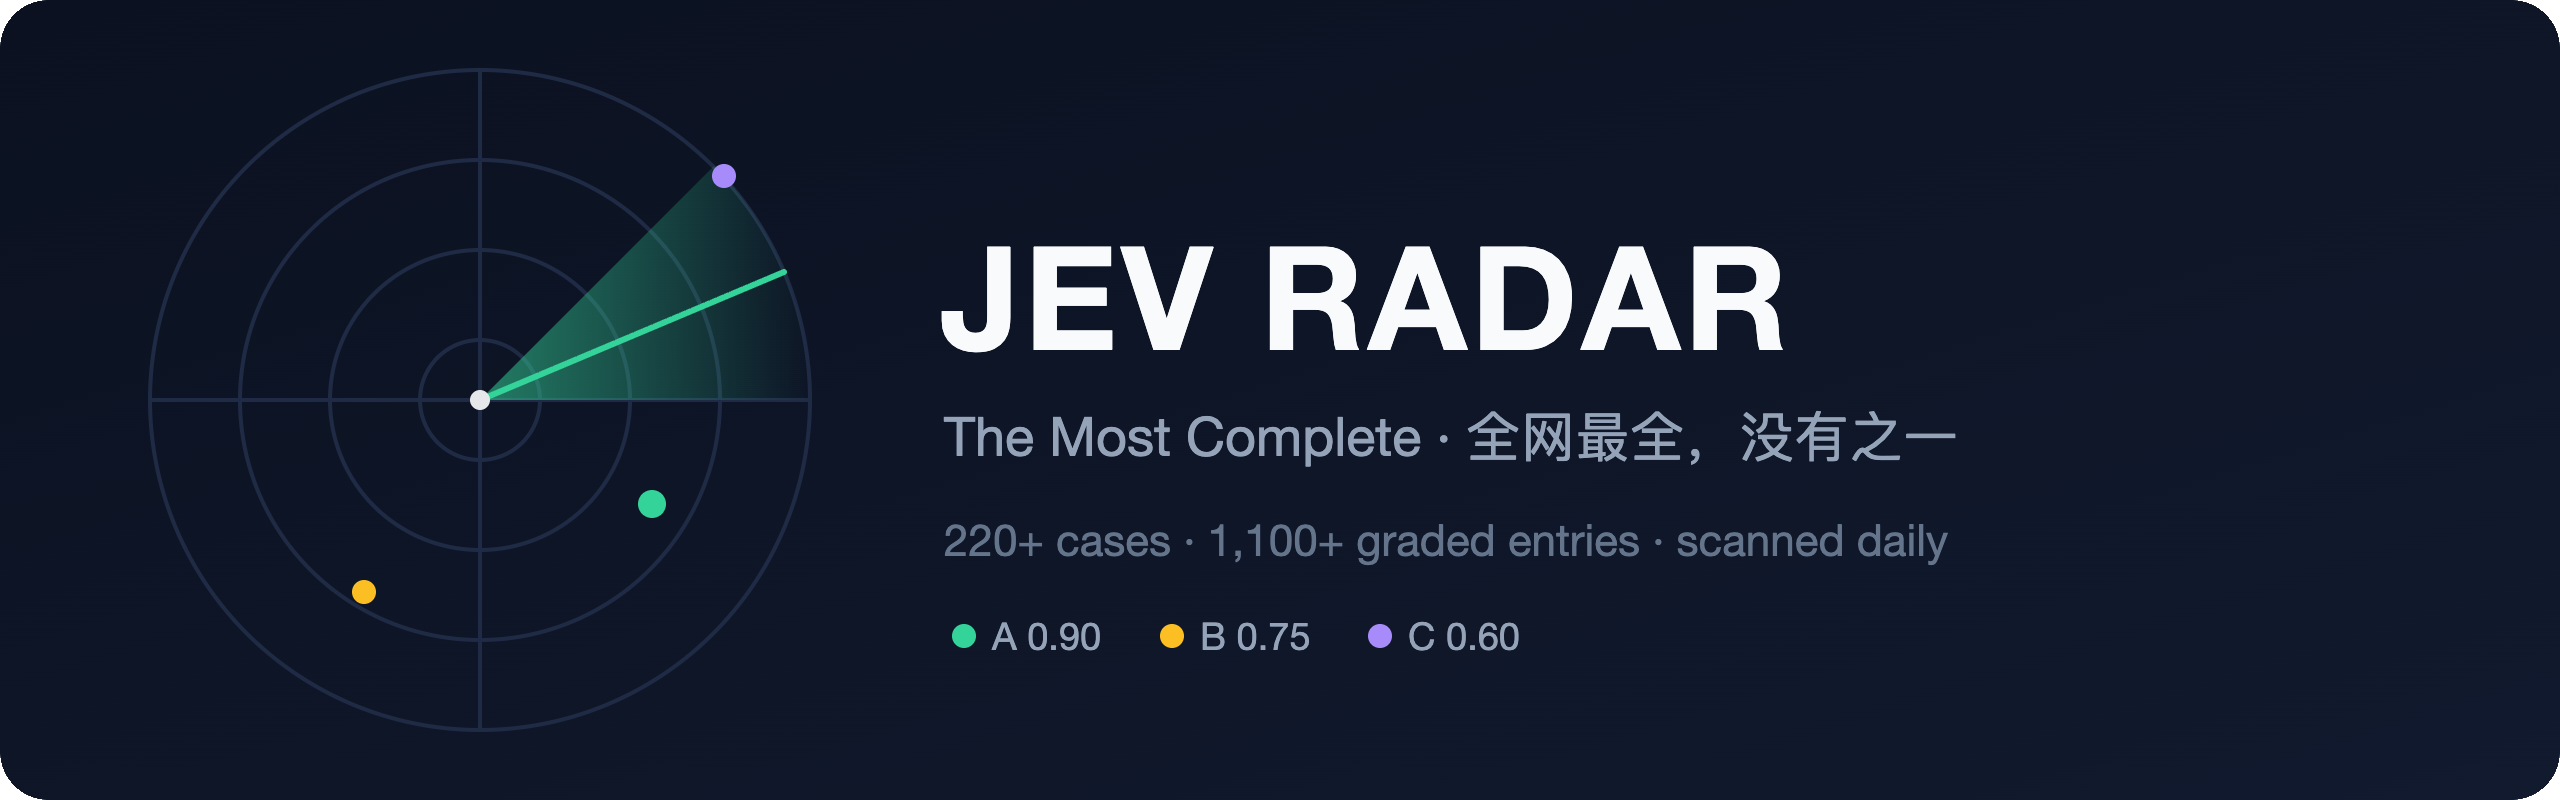
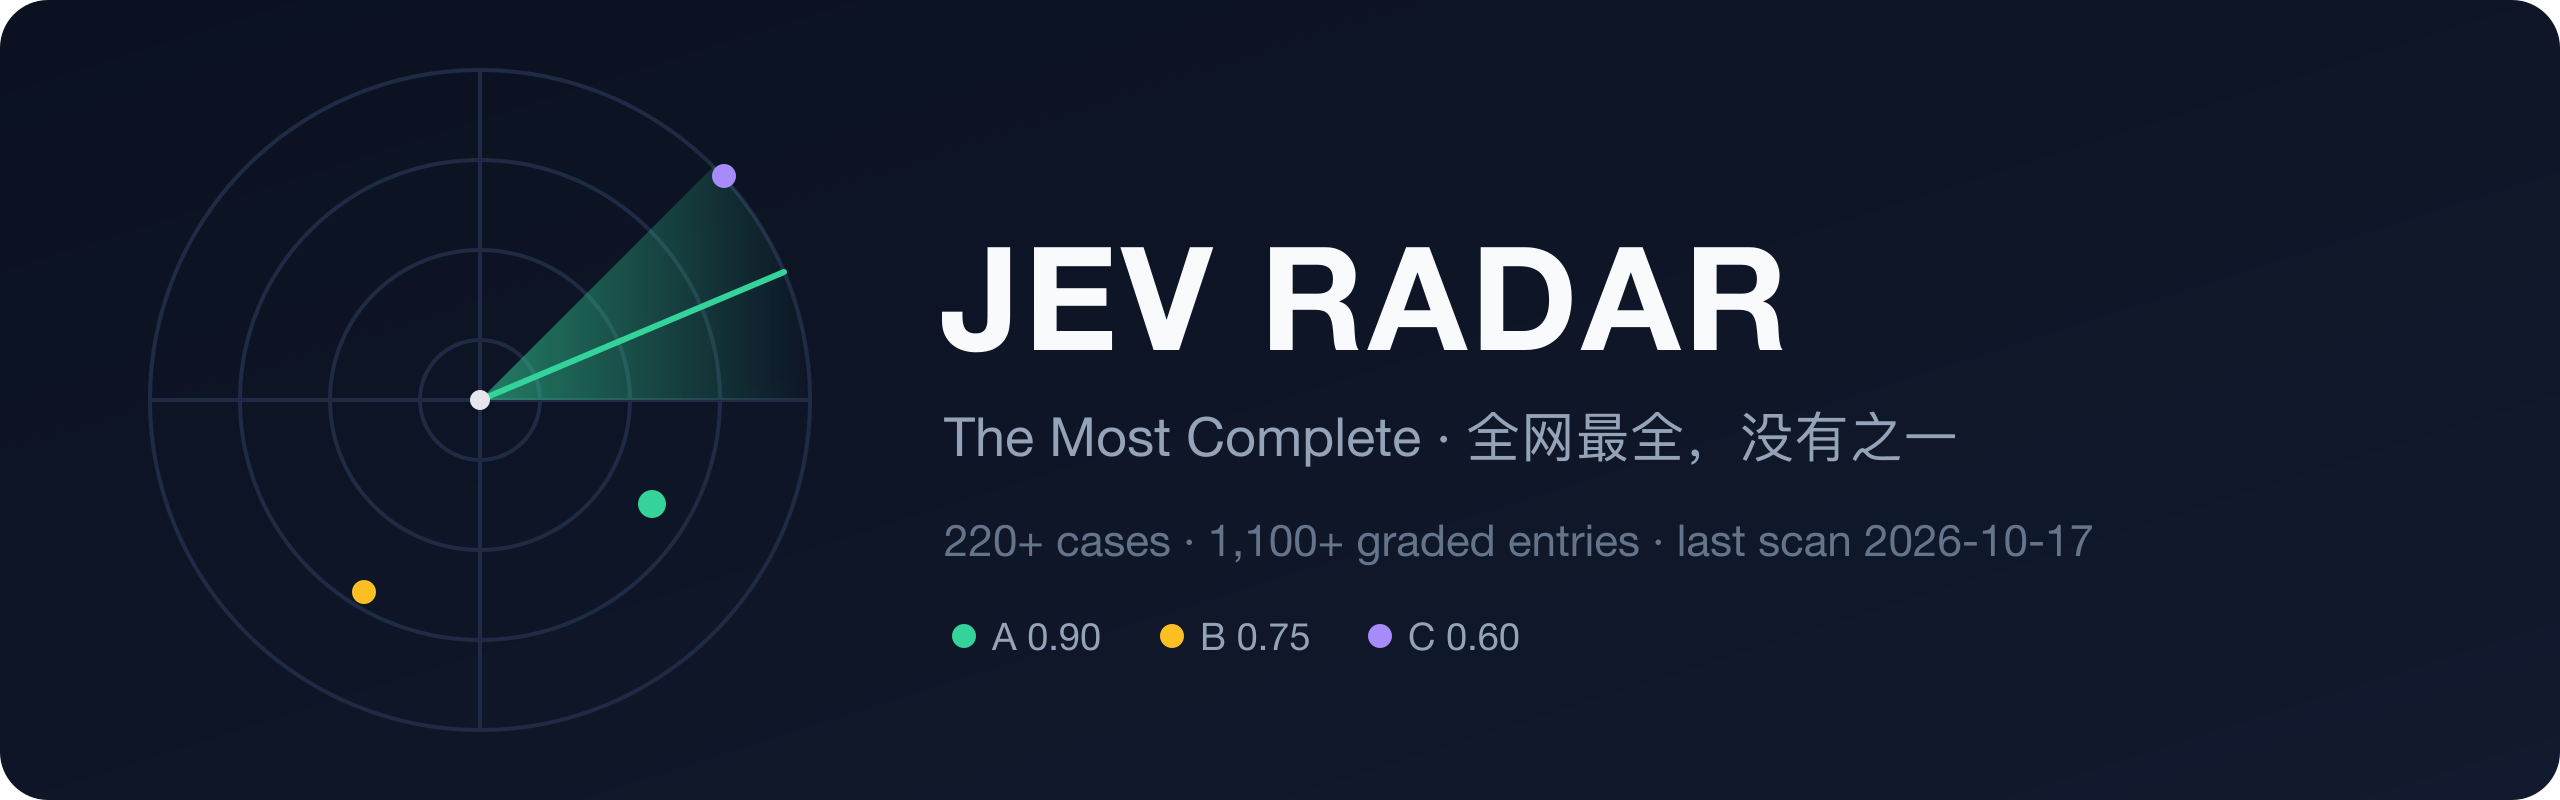
docs: replace scan-frequency claims with the actual last scan date (2026-10-17)

diff --git a/README.md b/README.md
@@ -41,12 +41,12 @@ The pitch that took over developer Twitter: **70–500 ms** end-to-end latency, 
 
 Four days after launch, the Jev ecosystem crossed **1,000 repositories** within five days (21,600+ stars at day 4). Jev Radar is an independent attempt to answer one question with evidence: **what is the world actually building with this thing?**
 
-Every case here was verified against a primary source — a repository we opened, a live demo we hit, or the author's original post. No hearsay, no listicle padding. Since 2026-09-19 an automated sweep (GitHub · X/Twitter · five community directories) has run every three hours, then daily at 19:00 UTC+8 from 10-11; anything new is verified, graded, and committed — see *Cadence* below.
+Every case here was verified against a primary source — a repository we opened, a live demo we hit, or the author's original post. No hearsay, no listicle padding. Since 2026-09-19 an automated sweep (GitHub · X/Twitter · five community directories) has collected candidates; anything new is verified, graded, and committed — see *Last scan* below. Last scan: 2026-10-17.
 
 ### 📅 26 天推送日历 / 26-Day Scan Calendar(2026-09-19 → 10-14)
 
-09-19 至 10-14 每天至少一次真实提交,无一日中断;10-15 起由新的定时任务接续每日扫描。每格为当日提交数(图例:`·` 0 `▁` 1-2 `▄` 3-5 `▆` 6-9 `█` 10+)。
-At least one real commit every day from 2026-09-19 to 10-14 — no gaps. Daily scans continue from 10-15 on a new scheduler.
+09-19 至 10-14 每天至少一次真实提交,无一日中断;10-15 起由新的定时任务接续扫描。最近一次扫描:2026-10-17。每格为当日提交数(图例:`·` 0 `▁` 1-2 `▄` 3-5 `▆` 6-9 `█` 10+)。
+At least one real commit every day from 2026-09-19 to 10-14 — no gaps. Scanning continued from 10-15 on a new scheduler. Last scan: 2026-10-17.
 
 ```
 █ █                                        09-19:14  09-20:12
@@ -96,7 +96,7 @@ Original 2026-09-19 case-verification cohort: **38 × A · 70 × B · 0 × C** (
 | [`docs/jev-api-access-guide.zh.md`](./docs/jev-api-access-guide.zh.md) | **Jev API access guide** — waitlist walkthrough, the expedite-email trick, and no-wait alternatives (OpenRouter / Netlify / OpenJev / free playgrounds) |
 | [`skills/jev-radar-briefing/SKILL.md`](./skills/jev-radar-briefing/SKILL.md) | **One-file quickstart + daily-briefing skill** — drop into any SKILL.md-compatible agent for scheduled pulls and auto-generated digests; includes a no-agent shell script |
 
-**Cadence:** automated scan every 3 hours (2026-09-19 → 10-10), then daily at 19:00 UTC+8 from 10-11 (the 2026-10-15 19:00 run was skipped; scanning resumed the same evening). Every daily scan lands as a commit, with or without new entries; the registry stands at 1,170 entries as of the last scan.
+**Last scan:** 2026-10-17. Every scan lands as a commit, with or without new entries; the registry stands at 1,170 entries as of the last scan.
 **Sources swept:** awesome-typesafe · awesomejev.com (488 entries) · madewithjev.com (178 builds) · risetive.com/jev (98) · jevable.com · typesafeai.app · GitHub Search · X · Reddit · HN · V2EX/linux.do/Bilibili · YouTube · LinkedIn.
 
 ### Contributing
@@ -131,7 +131,7 @@ Jev 是 TypeSafe AI 于 **2026-09-15** 发布的首个 *System One* 模型。它
 
 发布 7 天,Jev 生态已突破 **2000 个仓库**。Jev Radar 想用证据回答一个问题:**大家到底在用它做什么?**
 
-这里收录的每个案例都核对过一手出处——我们打开过的仓库、访问过的线上 demo、或作者原帖。不收传闻,不凑数。2026-09-19 起,一套自动化巡检(GitHub · X · 五个社区目录站)先是每 3 小时、10-11 起每天 19:00(UTC+8)跑一次,新东西先检验、再定级、然后提交进仓库,详见下方「节奏」。
+这里收录的每个案例都核对过一手出处——我们打开过的仓库、访问过的线上 demo、或作者原帖。不收传闻,不凑数。2026-09-19 起,一套自动化巡检(GitHub · X · 五个社区目录站)负责收集候选,新东西先检验、再定级、然后提交进仓库,详见下方「最近扫描」。最近一次扫描:2026-10-17。
 
 ### 为什么可信
 
@@ -173,7 +173,7 @@ Jev 是 TypeSafe AI 于 **2026-09-15** 发布的首个 *System One* 模型。它
 | [`docs/jev-api-access-guide.zh.md`](./docs/jev-api-access-guide.zh.md) | **Jev API 申请攻略**——waitlist 全流程(含官网按钮 bug 与加急邮件技巧)、OpenRouter / Netlify / OpenJev 免排队通道、免费 Playground |
 | [`skills/jev-radar-briefing/SKILL.md`](./skills/jev-radar-briefing/SKILL.md) | **单文件接入 + 每日简报 Skill**——装进任意支持 SKILL.md 的 agent 即可定时拉取、自动生成日报;附不开 agent 的纯脚本版 |
 
-**节奏:**2026-09-19 至 10-10 每 3 小时自动扫描一次,10-11 起每天 19:00(UTC+8)一次(10-15 19:00 那一轮未跑,当晚恢复);每轮扫描无论有无新增都提交一个 commit。注册表以最后一轮扫描为准,目前 1,170 条。
+**最近扫描:**2026-10-17。每轮扫描无论有无新增都提交一个 commit。注册表以最后一轮扫描为准,目前 1,170 条。
 **覆盖来源:** awesome-typesafe · awesomejev.com(488 条)· madewithjev.com(178 个 build)· risetive.com/jev(98)· jevable.com · typesafeai.app · GitHub 搜索 · X · Reddit · HN · V2EX/linux.do/B站 · YouTube · LinkedIn。
 
 ### 参与贡献

diff --git a/i18n/README.es.md b/i18n/README.es.md
@@ -36,7 +36,7 @@ Lo que lo puso en boca de todo el mundo en la comunidad de desarrollo: latencia 
 
 En sus primeros cinco días, el ecosistema Jev superó los **1,000 repositorios** (más de 21,600 estrellas al cuarto día). Jev Radar es un intento independiente de responder con evidencia a una sola pregunta: **¿qué está construyendo de verdad la gente con esto?**
 
-Cada caso se verificó contra una fuente primaria: un repositorio que abrimos, una demo en vivo que probamos o la publicación original de su autoría. Nada de rumores ni de listas infladas. Desde el 2026-09-19 un barrido automático (GitHub · X · cinco directorios de la comunidad) se ejecutó cada tres horas y, desde el 10-11, una vez al día a las 19:00 (UTC+8); lo nuevo se verifica, se califica y se sube al repositorio. El último barrido es del 2026-10-17.
+Cada caso se verificó contra una fuente primaria: un repositorio que abrimos, una demo en vivo que probamos o la publicación original de su autoría. Nada de rumores ni de listas infladas. Desde el 2026-09-19 un barrido automático (GitHub · X · cinco directorios de la comunidad) recoge candidatos; lo nuevo se verifica, se califica y se sube al repositorio. Último escaneo: 17-10-2026.
 
 ## Por qué puedes fiarte
 
